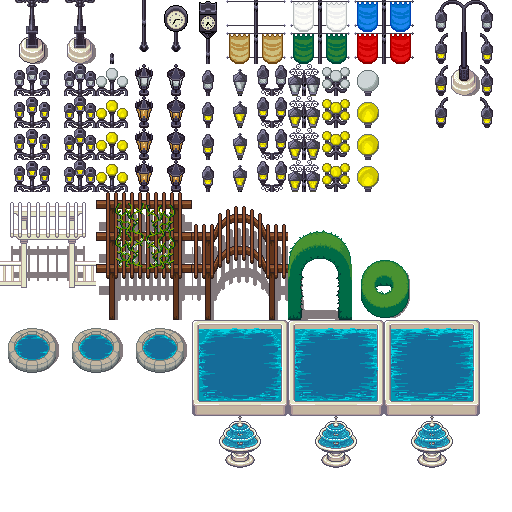
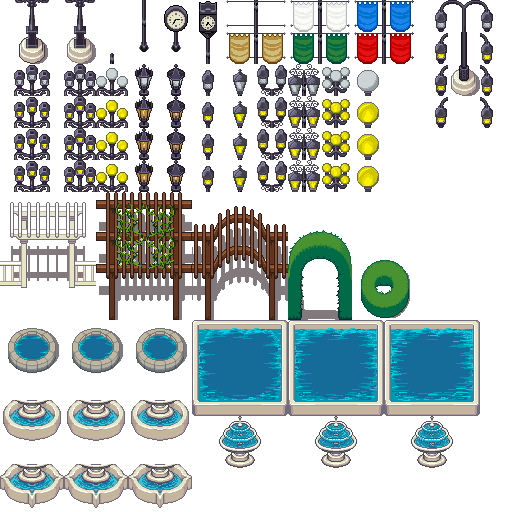
Adding a standalone fountain.

Changed region(s): [[0.0, 0.9062, 0.375, 1.0], [0.0, 0.7812, 0.375, 0.875]]

diff --git a/addons/AlephVault.WindRose.LPC/visuals/victorian-street-appliances/README.md b/addons/AlephVault.WindRose.LPC/visuals/victorian-street-appliances/README.md
@@ -51,6 +51,7 @@ Inventory
 | `GrassRing` | Down only | Region `(352, 256, 64, 64)` | `Vector2(0, -32)` | Static | None |
 | `RoundFountainPool` | Down only | Four composed frames from `(0, 320, 64, 64)`, `(64, 320, 64, 64)`, `(128, 320, 64, 64)`, `(64, 320, 64, 64)` | `Vector2(0, -32)` | 4-frame animation at default `fps = 4` | `fps` |
 | `BigSquareFountainPool` | Down only | Four composed frames from `(192, 320, 96, 96)`, `(288, 320, 96, 96)`, `(384, 320, 96, 96)`, `(288, 320, 96, 96)` | `Vector2(0, -32)` | 4-frame animation at default `fps = 4` | `fps`, `include_fountain` |
+| `StandaloneFountain` | Down only | Four composed `64x96` frames | `Vector2(0, -32)` | 4-frame animation at default `fps = 4` | `fps`, `fountain_type` with 2 variants |
 
 Composition Notes
 -----------------
@@ -82,3 +83,5 @@ Composition Notes
 - Paste `(128, 0, 32, 64)` at `(16, 64)`.
 
 `BigSquareFountainPool` builds four cached animation frames. When `include_fountain` is `false`, each frame pastes its 96x96 source rect directly. When `include_fountain` is `true`, each frame also pastes `(X, Y + 69, 96, 64)` over the frame at `(0, 0)`.
+
+`StandaloneFountain` builds four cached animation frames. For `FOUNTAIN_TYPE_1`, it pastes bottom rects from y `400`; for `FOUNTAIN_TYPE_2`, it uses y `464`. Bottom frame rects are `(0, Y, 64, 48)`, `(64, Y, 64, 48)`, `(128, Y, 64, 48)`, `(64, Y, 64, 48)` at `(0, 48)`. It then overlays top rects `(208, 416, 64, 64)`, `(304, 416, 64, 64)`, `(400, 416, 64, 64)`, `(304, 416, 64, 64)` at `(0, 0)`.